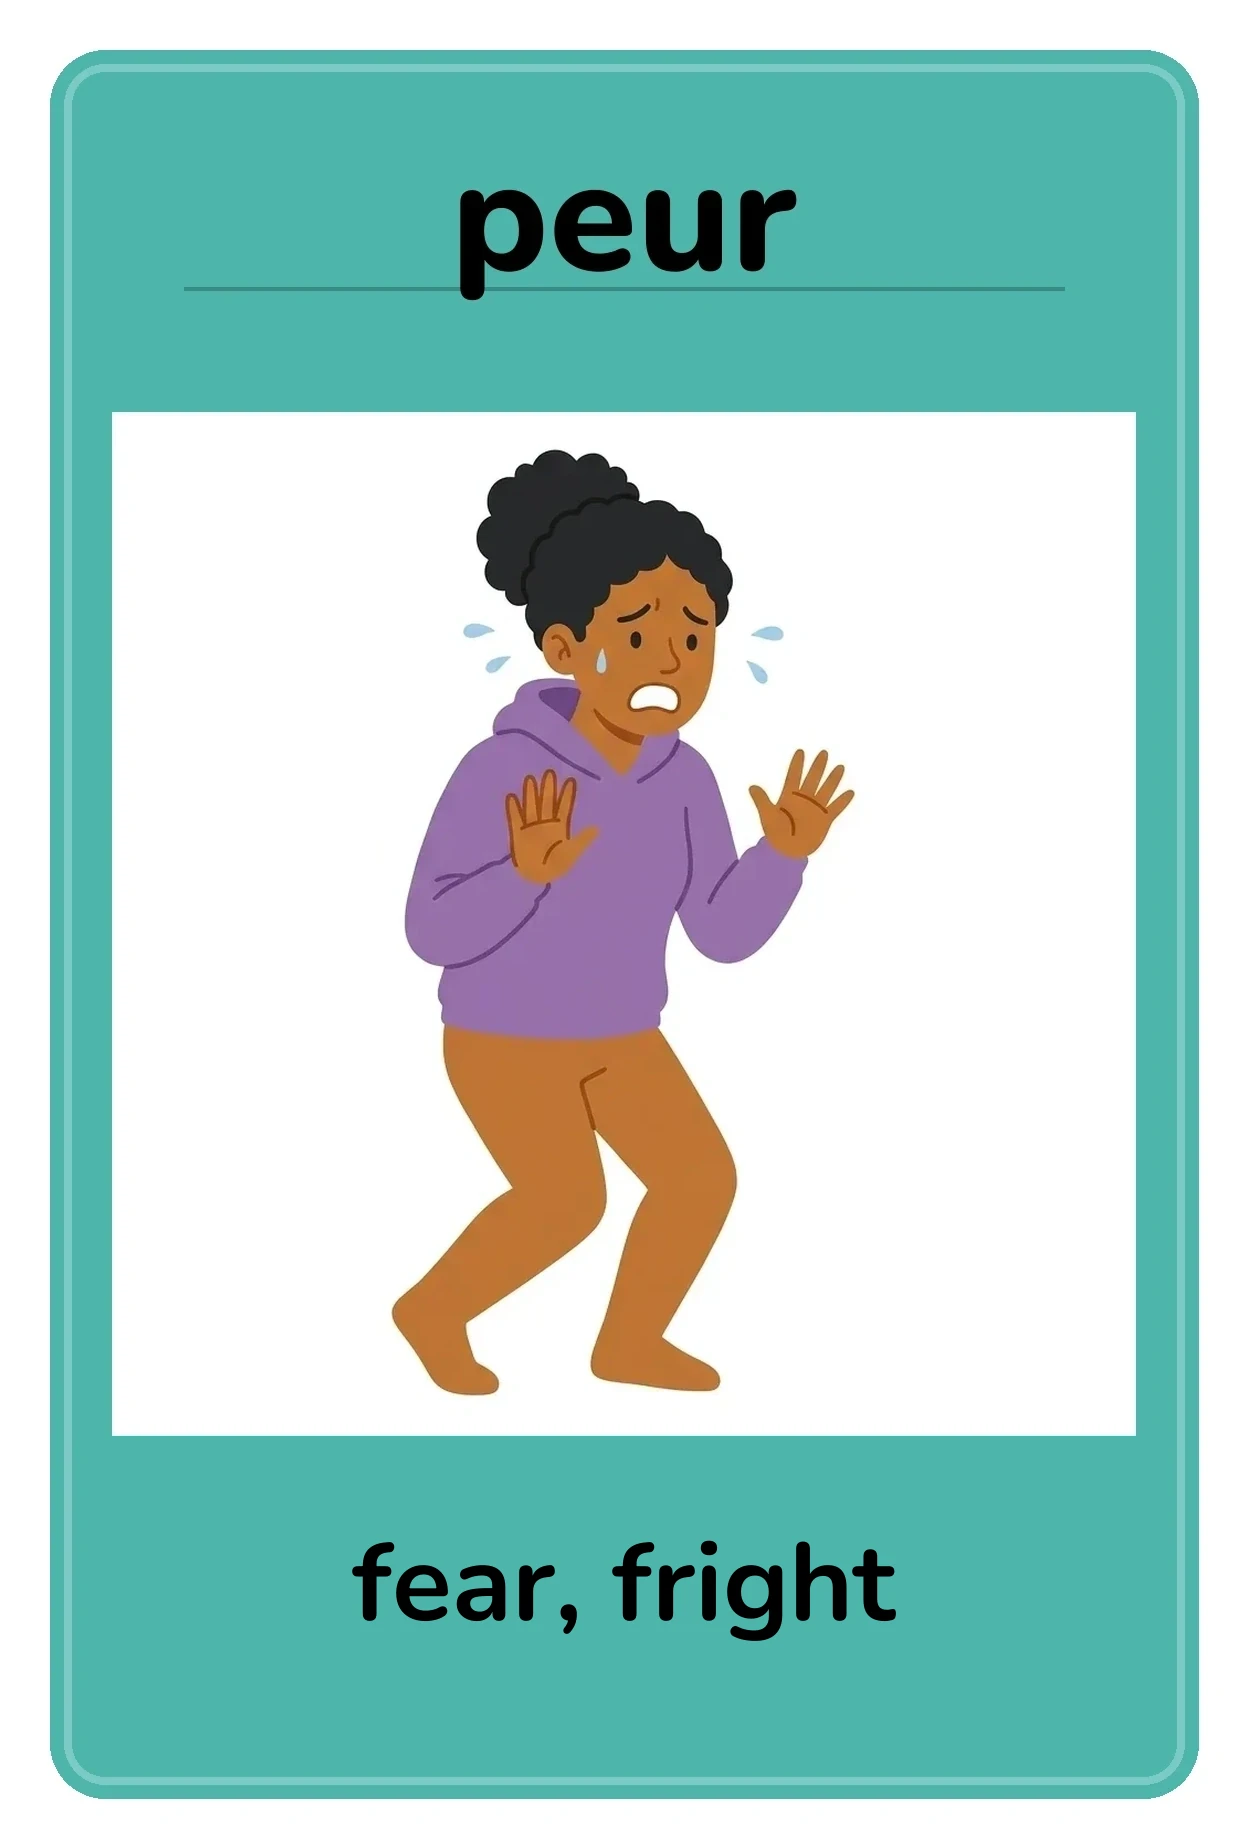
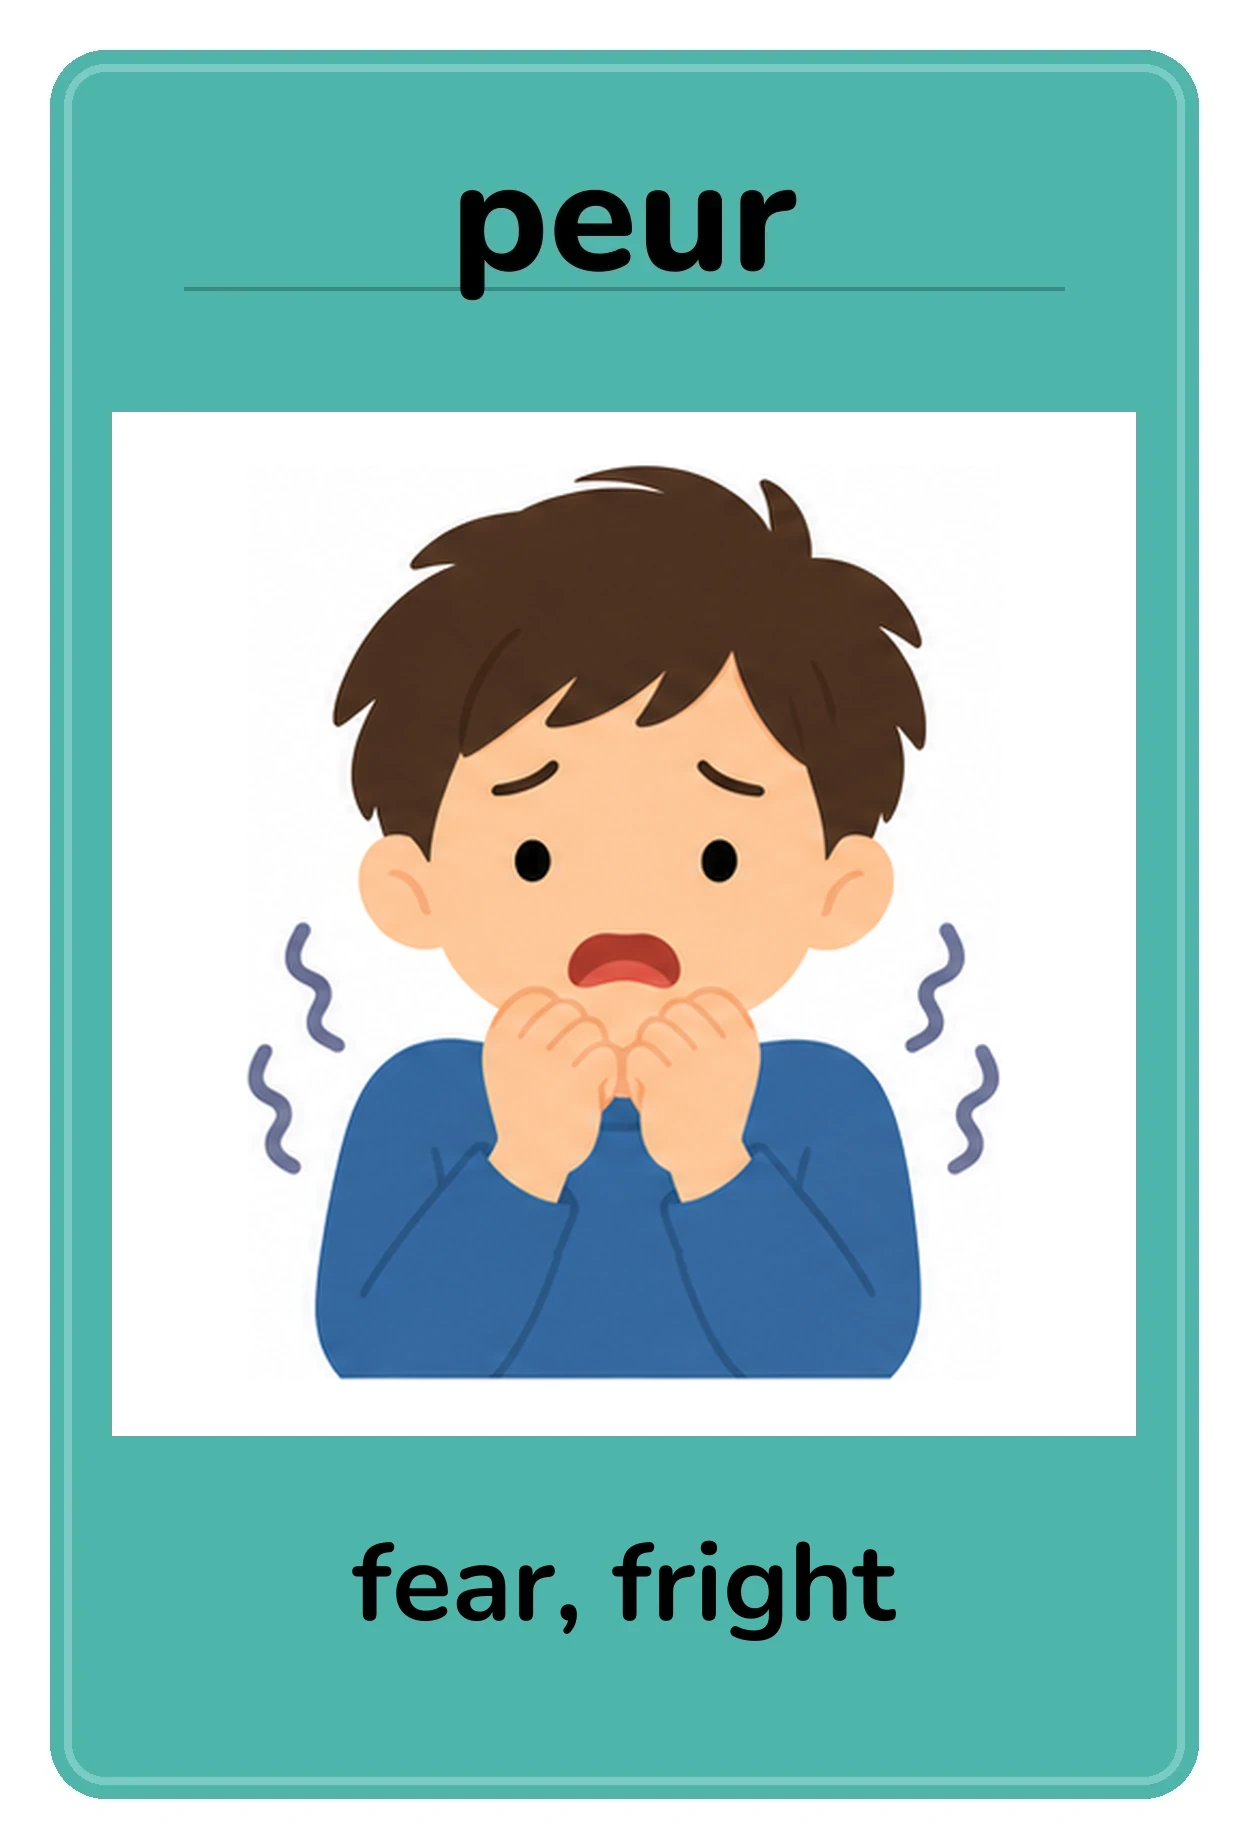
Restore the desktop fear illustration on all three language cards.
The later footer rebuild had put the old drawing back. The new picture is pasted into the illustration box only. Headers and footers stay as they were. Service worker is v89 so the cached cards refresh.

Changed region(s): [[0.1875, 0.2468, 0.8125, 0.7711]]

diff --git a/sw.js b/sw.js
@@ -10,7 +10,7 @@
    Bump CACHE_VERSION on every deploy. Old caches are deleted on
    activate, so a stale stylesheet can never outlive a release.       */
 
-const CACHE_VERSION = 'v88';
+const CACHE_VERSION = 'v89';
 const SHELL_CACHE   = `ptw-shell-${CACHE_VERSION}`;
 const ASSET_CACHE   = `ptw-assets-${CACHE_VERSION}`;
 
